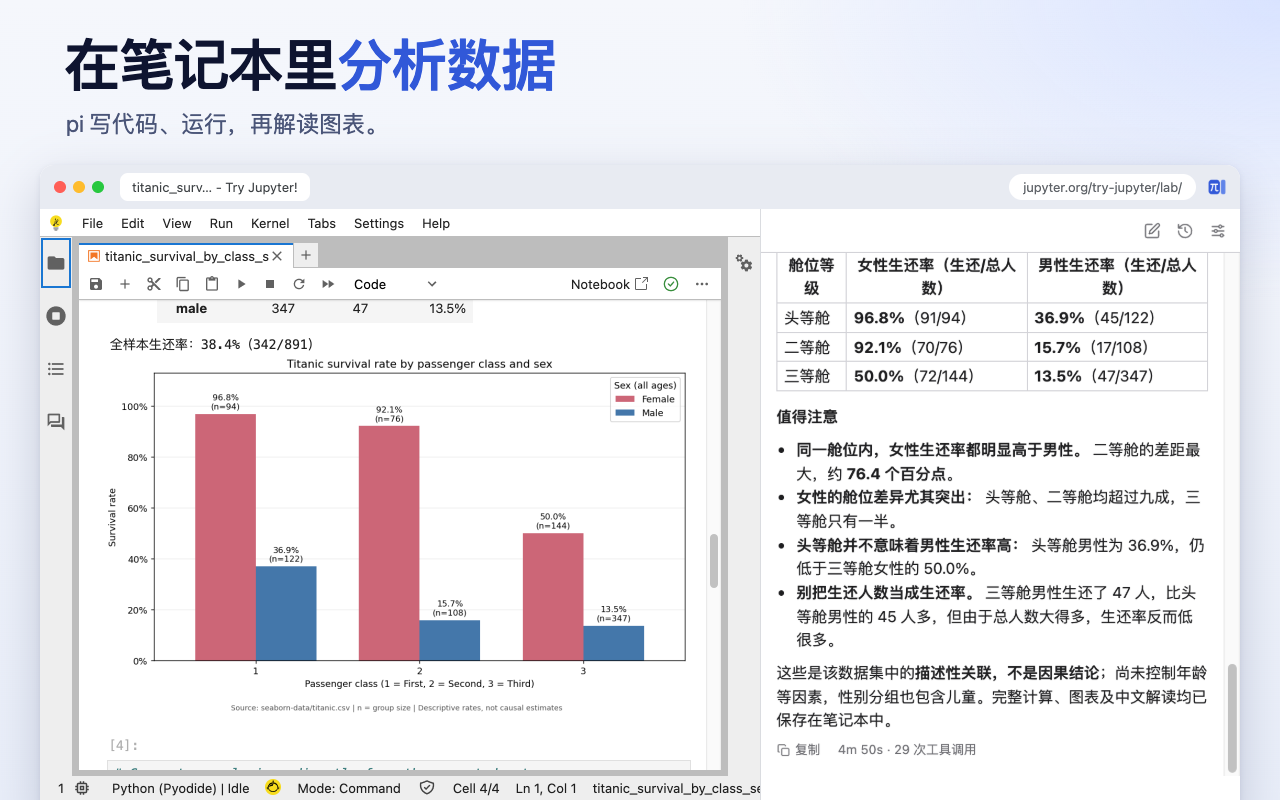
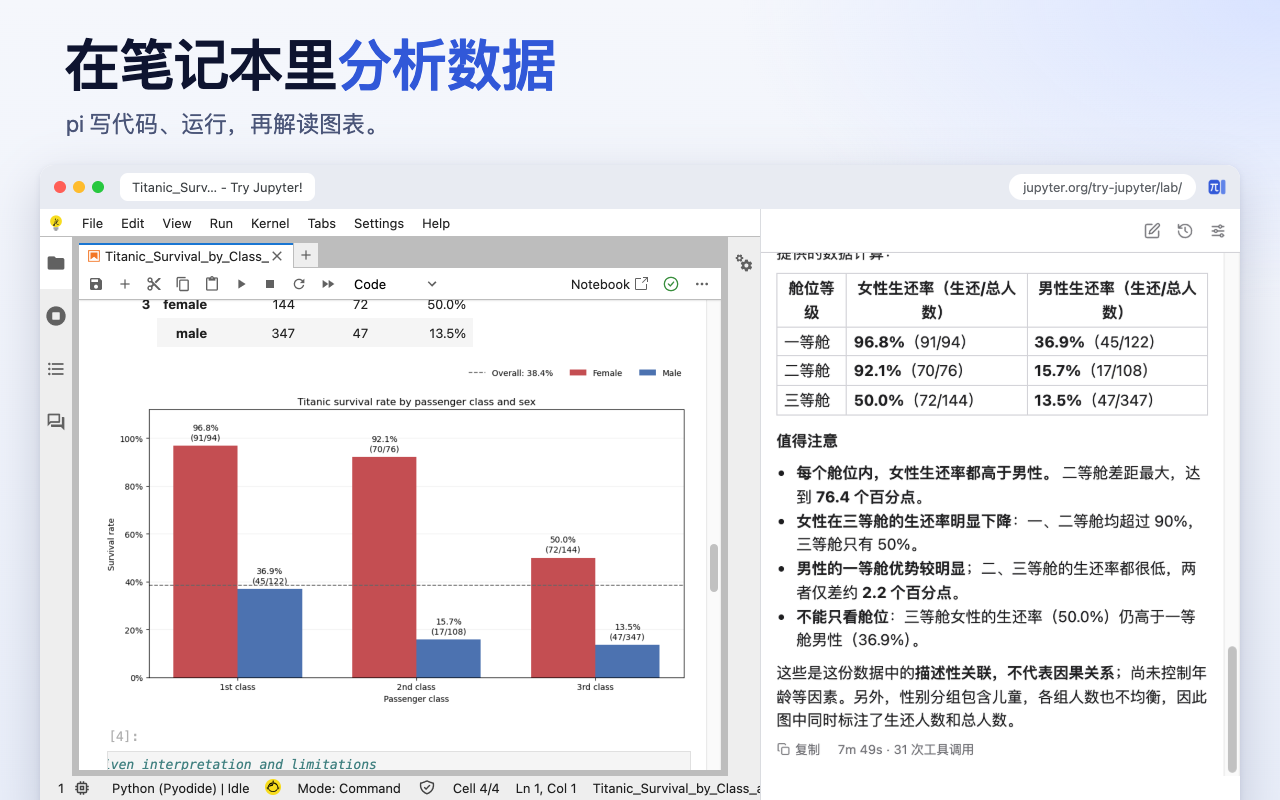
docs: README animations for the long live runs, every shot with question and answer
The diagram, app, notebook, issues and explain examples are now animations of the live runs: each opens on the
question and ends on the finished answer, with a link to a still. Summary and translate stay stills; all 14 stills are
recaptured with steps folded. The issues ask now says to chart on the page.

screenshots.mjs: a still shows the chat from its question, its end only with `end` when the chat does not fit;
RECORD takes a list of scenes, and frames start once the question is sent; Explain runs through the live helper; the
notebook closes its file browser with a real click; page loads wait up to 90 s.

diff --git a/README.md b/README.md
@@ -90,30 +90,32 @@ Open pi on the page you want help with. On a Mac, use `Cmd` instead of `Ctrl`
 
 ## Examples
 
-<sub>The screenshots and the animation below are real runs of GPT-6.1 Sol through a ChatGPT plan, on live sites.
+<sub>The screenshots and animations below are real runs of GPT-6.1 Sol through a ChatGPT plan, on live sites.
 Results and timing vary by model and run.</sub>
 
 ### Summarize a page
 
-*"Summarize this page in 5 key points."* Beside Paul Graham's essay *How to Do Great Work*, pi reads the page and
-answers in seconds. Ask a follow-up in the same chat.
+*"Summarize this page in 5 short bullet points."* Beside Paul Graham's essay *How to Do Great Work*, pi reads the page
+and answers in seconds. Ask a follow-up in the same chat.
 
-![pi-aside beside Paul Graham's essay How to Do Great Work: a summary in 5 key points, made in 25 seconds](docs/images/summary.png)
+![pi-aside beside Paul Graham's essay How to Do Great Work: a summary in 5 short points, made in 18 seconds](docs/images/summary.png)
 
 ### Draw on a whiteboard
 
 *"Draw a simple, colorful diagram of how a web request reaches the server: browser, CDN, load balancer, app server,
-cache, and database."* On Excalidraw, pi draws with a script, checks the result with a screenshot, and fits it in
-view.
+cache, and database. Make it big and easy to read."* On Excalidraw, pi draws with a script, checks the result with a
+screenshot, and fits it in view.
 
-![pi-aside beside Excalidraw: a colorful diagram of a web request going from the browser through a CDN, a load balancer, and an app server to a cache and a database](docs/images/diagram.png)
+![An animation of pi-aside beside Excalidraw: pi draws a colorful diagram of a web request going from the browser through a CDN, a load balancer, and an app server to a cache and a database](docs/images/diagram.webp)
+
+<sub>Sped up. [The finished diagram as a still image](docs/images/diagram.png).</sub>
 
 ### Build a working app
 
 *"Build a Pomodoro timer here: start, pause, and reset, a progress ring, and a calm color theme. Then run it, and show the result large."* On
 JSFiddle, pi writes the HTML, CSS, and JavaScript into the editors, runs the result, and tests its buttons.
 
-![An animation of pi-aside beside JSFiddle: pi writes a Pomodoro timer into the editors, runs it, and the timer starts counting down](docs/images/app.webp)
+![An animation of pi-aside beside JSFiddle: pi writes a Pomodoro timer into the editors, runs it, and shows the timer large](docs/images/app.webp)
 
 <sub>Sped up. [The finished app as a still image](docs/images/app.png).</sub>
 
@@ -123,22 +125,28 @@ JSFiddle, pi writes the HTML, CSS, and JavaScript into the editors, runs the res
 and tell me what stands out."* On JupyterLite, which runs Python in the page, pi writes the cells, runs them, reads
 the chart, and reports what the data shows, without claiming causes.
 
-![pi-aside beside a JupyterLite notebook: a bar chart of Titanic survival rates by class and sex, and pi's findings for all 891 passengers](docs/images/notebook.png)
+![An animation of pi-aside beside a JupyterLite notebook: pi writes and runs the cells, and a bar chart of Titanic survival rates by class and sex appears with pi's findings](docs/images/notebook.webp)
+
+<sub>Sped up. [The finished notebook as a still image](docs/images/notebook.png).</sub>
 
 ### Dig into a whole repository
 
-*"Which areas do the 100 newest open issues fall in? Chart them, and highlight the 5 most-discussed issues on this
-page."* On VS Code's issues, one script reads four pages of issues. pi sorts them into areas, charts them on the page,
+*"Which areas do the 100 newest open issues fall in? Chart them on this page, and highlight the 5 most-discussed issues
+there."* On VS Code's issues, one script reads four pages of issues. pi sorts them into areas, charts them on the page,
 and lists the most-discussed among these 100.
 
-![pi-aside beside VS Code's GitHub issues: a chart of the 100 newest open issues by area, added to the page, and the 5 most-discussed among them](docs/images/issues.png)
+![An animation of pi-aside beside VS Code's GitHub issues: pi reads the 100 newest open issues, adds a chart of them by area to the page, and lists the 5 most-discussed](docs/images/issues.webp)
+
+<sub>Sped up. [The finished chart as a still image](docs/images/issues.png).</sub>
 
 ### Explain a selection
 
 *"Explain this simply, with a diagram."* With a paragraph of MDN's HTTP caching guide selected, pi explains when a
 stored response is fresh or stale, with a table or a diagram when it helps.
 
-![pi-aside beside MDN's HTTP caching guide: a question about a selected paragraph, answered in plain words with a table of the Cache-Control settings](docs/images/explain.png)
+![An animation of pi-aside beside MDN's HTTP caching guide: a question about a selected paragraph, answered in plain words with a diagram](docs/images/explain.webp)
+
+<sub>Sped up. [The answer as a still image](docs/images/explain.png).</sub>
 
 ### More to try
 

diff --git a/README.zh-CN.md b/README.zh-CN.md
@@ -69,15 +69,17 @@ npm run build             # 构建到 dist/
 
 ### 总结网页
 
-*“用 5 个要点总结这个页面。”* 在 Paul Graham 的文章《How to Do Great Work》旁，pi 读完整页，很快给出要点，还能在同一个对话里接着追问。
+*“用 5 个简短的要点总结这个页面。”* 在 Paul Graham 的文章《How to Do Great Work》旁，pi 读完整页，很快给出要点，还能在同一个对话里接着追问。
 
-![pi-aside 在 Paul Graham 的文章 How to Do Great Work 旁：用 5 个要点总结全文，用时 25 秒](docs/images/zh-CN-summary.png)
+![pi-aside 在 Paul Graham 的文章 How to Do Great Work 旁：用 5 个简短的要点总结全文，用时 28 秒](docs/images/zh-CN-summary.png)
 
 ### 在白板上画图
 
-*“画一张简洁、彩色的图，说明网页请求是怎么到达服务器的：浏览器、CDN、负载均衡、应用服务器、缓存和数据库。”* 在 Excalidraw 上，pi 用脚本画图，截图检查效果，再把整张图放进视野。
+*“画一张简洁、彩色的图，说明网页请求是怎么到达服务器的：浏览器、CDN、负载均衡、应用服务器、缓存和数据库。画大一点，方便看清。”* 在 Excalidraw 上，pi 用脚本画图，截图检查效果，再把整张图放进视野。
 
-![pi-aside 在 Excalidraw 旁：一张彩色架构图，网页请求从浏览器经过 CDN、负载均衡、应用服务器，再到缓存和数据库](docs/images/zh-CN-diagram.png)
+![动画：pi-aside 在 Excalidraw 旁画出一张彩色架构图，网页请求从浏览器经过 CDN、负载均衡、应用服务器，再到缓存和数据库](docs/images/zh-CN-diagram.webp)
+
+<sub>已加速播放。[完成后的静态截图](docs/images/zh-CN-diagram.png)。</sub>
 
 ### 做出能用的小应用
 
@@ -91,19 +93,25 @@ npm run build             # 构建到 dist/
 
 *“新建一个 Python 笔记本，载入泰坦尼克号乘客数据（一个 CSV 链接），按舱位等级和性别画出生还率，再告诉我有什么值得注意的。”* JupyterLite 直接在网页里运行 Python；pi 写好代码单元、运行、读图，说明数据呈现了什么，不妄下因果结论。
 
-![pi-aside 在 JupyterLite 笔记本旁：泰坦尼克号按舱位和性别的生还率，以及 pi 对全部 891 名乘客的分析](docs/images/zh-CN-notebook.png)
+![动画：pi-aside 在 JupyterLite 笔记本旁写好并运行代码单元，画出泰坦尼克号按舱位和性别的生还率，并给出分析](docs/images/zh-CN-notebook.webp)
+
+<sub>已加速播放。[完成后的静态截图](docs/images/zh-CN-notebook.png)。</sub>
 
 ### 一眼看懂整个仓库
 
 *“最新的 100 个未关闭 issue 分属哪些领域？画个图，并在这个页面上标出讨论最多的 5 个。”* 在 VS Code 的 issue 页面，一段脚本读完四页 issue；pi 把它们归入各个领域，在页面上画成图，并列出这 100 个里讨论最多的 5 个。
 
-![pi-aside 在 VS Code 的 GitHub issue 页面旁：最新 100 个未关闭 issue 按领域分布的图表，加在页面上，并列出其中讨论最多的 5 个](docs/images/zh-CN-issues.png)
+![动画：pi-aside 在 VS Code 的 GitHub issue 页面旁读完最新 100 个未关闭 issue，把按领域分布的图表加在页面上，并列出讨论最多的 5 个](docs/images/zh-CN-issues.webp)
+
+<sub>已加速播放。[完成后的静态截图](docs/images/zh-CN-issues.png)。</sub>
 
 ### 解释选中的内容
 
 *“用中文简单解释这段话，并画一张图。”* 选中 MDN 的 HTTP 缓存指南里的一段，pi 讲清楚存下的响应什么时候算“新鲜”、什么时候“过期”，需要时配上表格或图。
 
-![pi-aside 在 MDN 的 HTTP 缓存指南旁：针对选中的段落提问，用大白话解释，并配了一张图](docs/images/zh-CN-explain.png)
+![动画：pi-aside 在 MDN 的 HTTP 缓存指南旁，针对选中的段落提问，用大白话解释，并配了一张图](docs/images/zh-CN-explain.webp)
+
+<sub>已加速播放。[回答的静态截图](docs/images/zh-CN-explain.png)。</sub>
 
 ### 还可以试试
 
